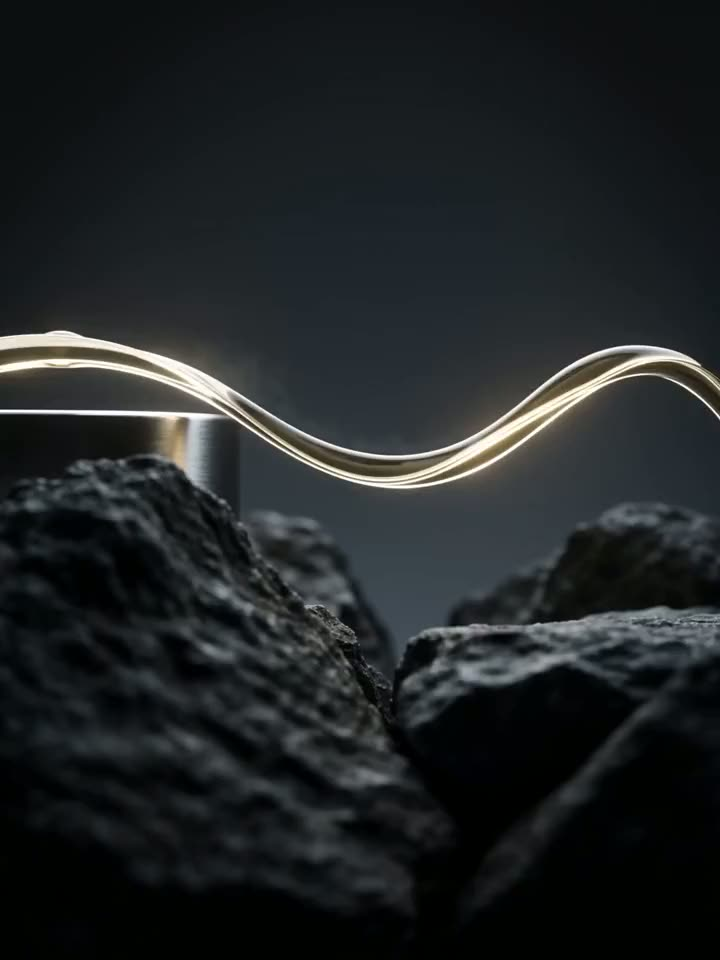
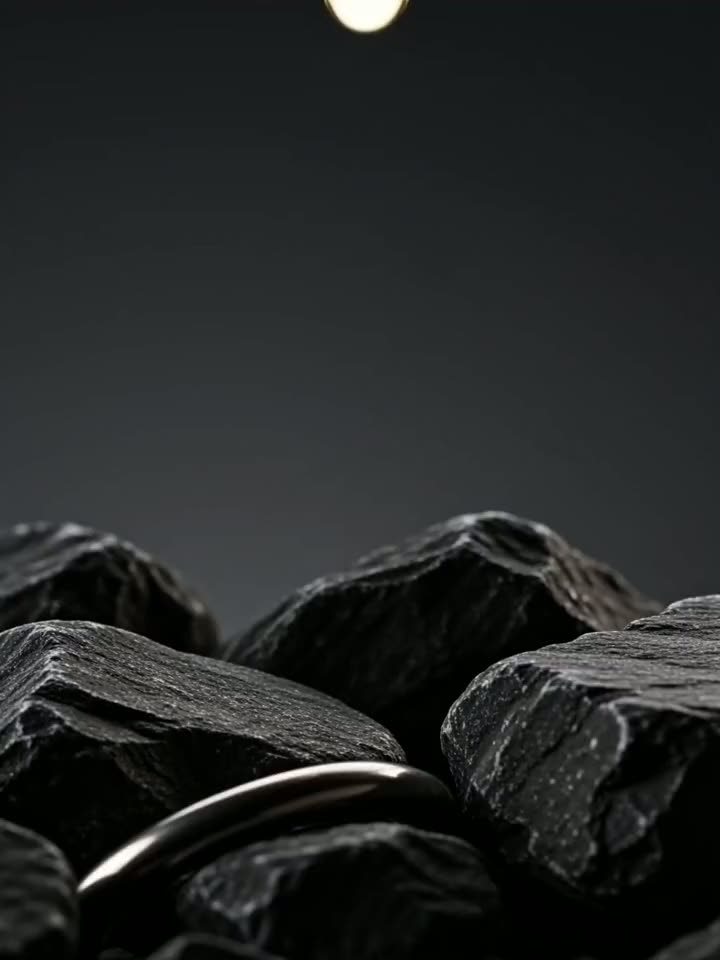
ProductDetail: regenerate Distillates & Base Oil videos (natural motion); shorten distillates statement

diff --git a/src/components/sections/ProductDetail/ProductDetail.tsx b/src/components/sections/ProductDetail/ProductDetail.tsx
@@ -165,8 +165,8 @@ const PRODUCT_EXTRAS: Record<string, ProductExtras> = {
     stages: [
       {
         tag: "What they are",
-        lead: "Light streams between two worlds — chemical feedstock and road fuel",
-        muted: "— naphtha feeds petrochemicals and blends into gasoline; mogas is the finished pump fuel.",
+        lead: "Light streams between two worlds",
+        muted: "— chemical feedstock and finished road fuel.",
         noteTag: "Why it matters",
         note: "Sitting at the crossover of chemicals and fuels, they're among the most actively traded and arbitraged products in the barrel — flexibility across markets and seasons.",
       },